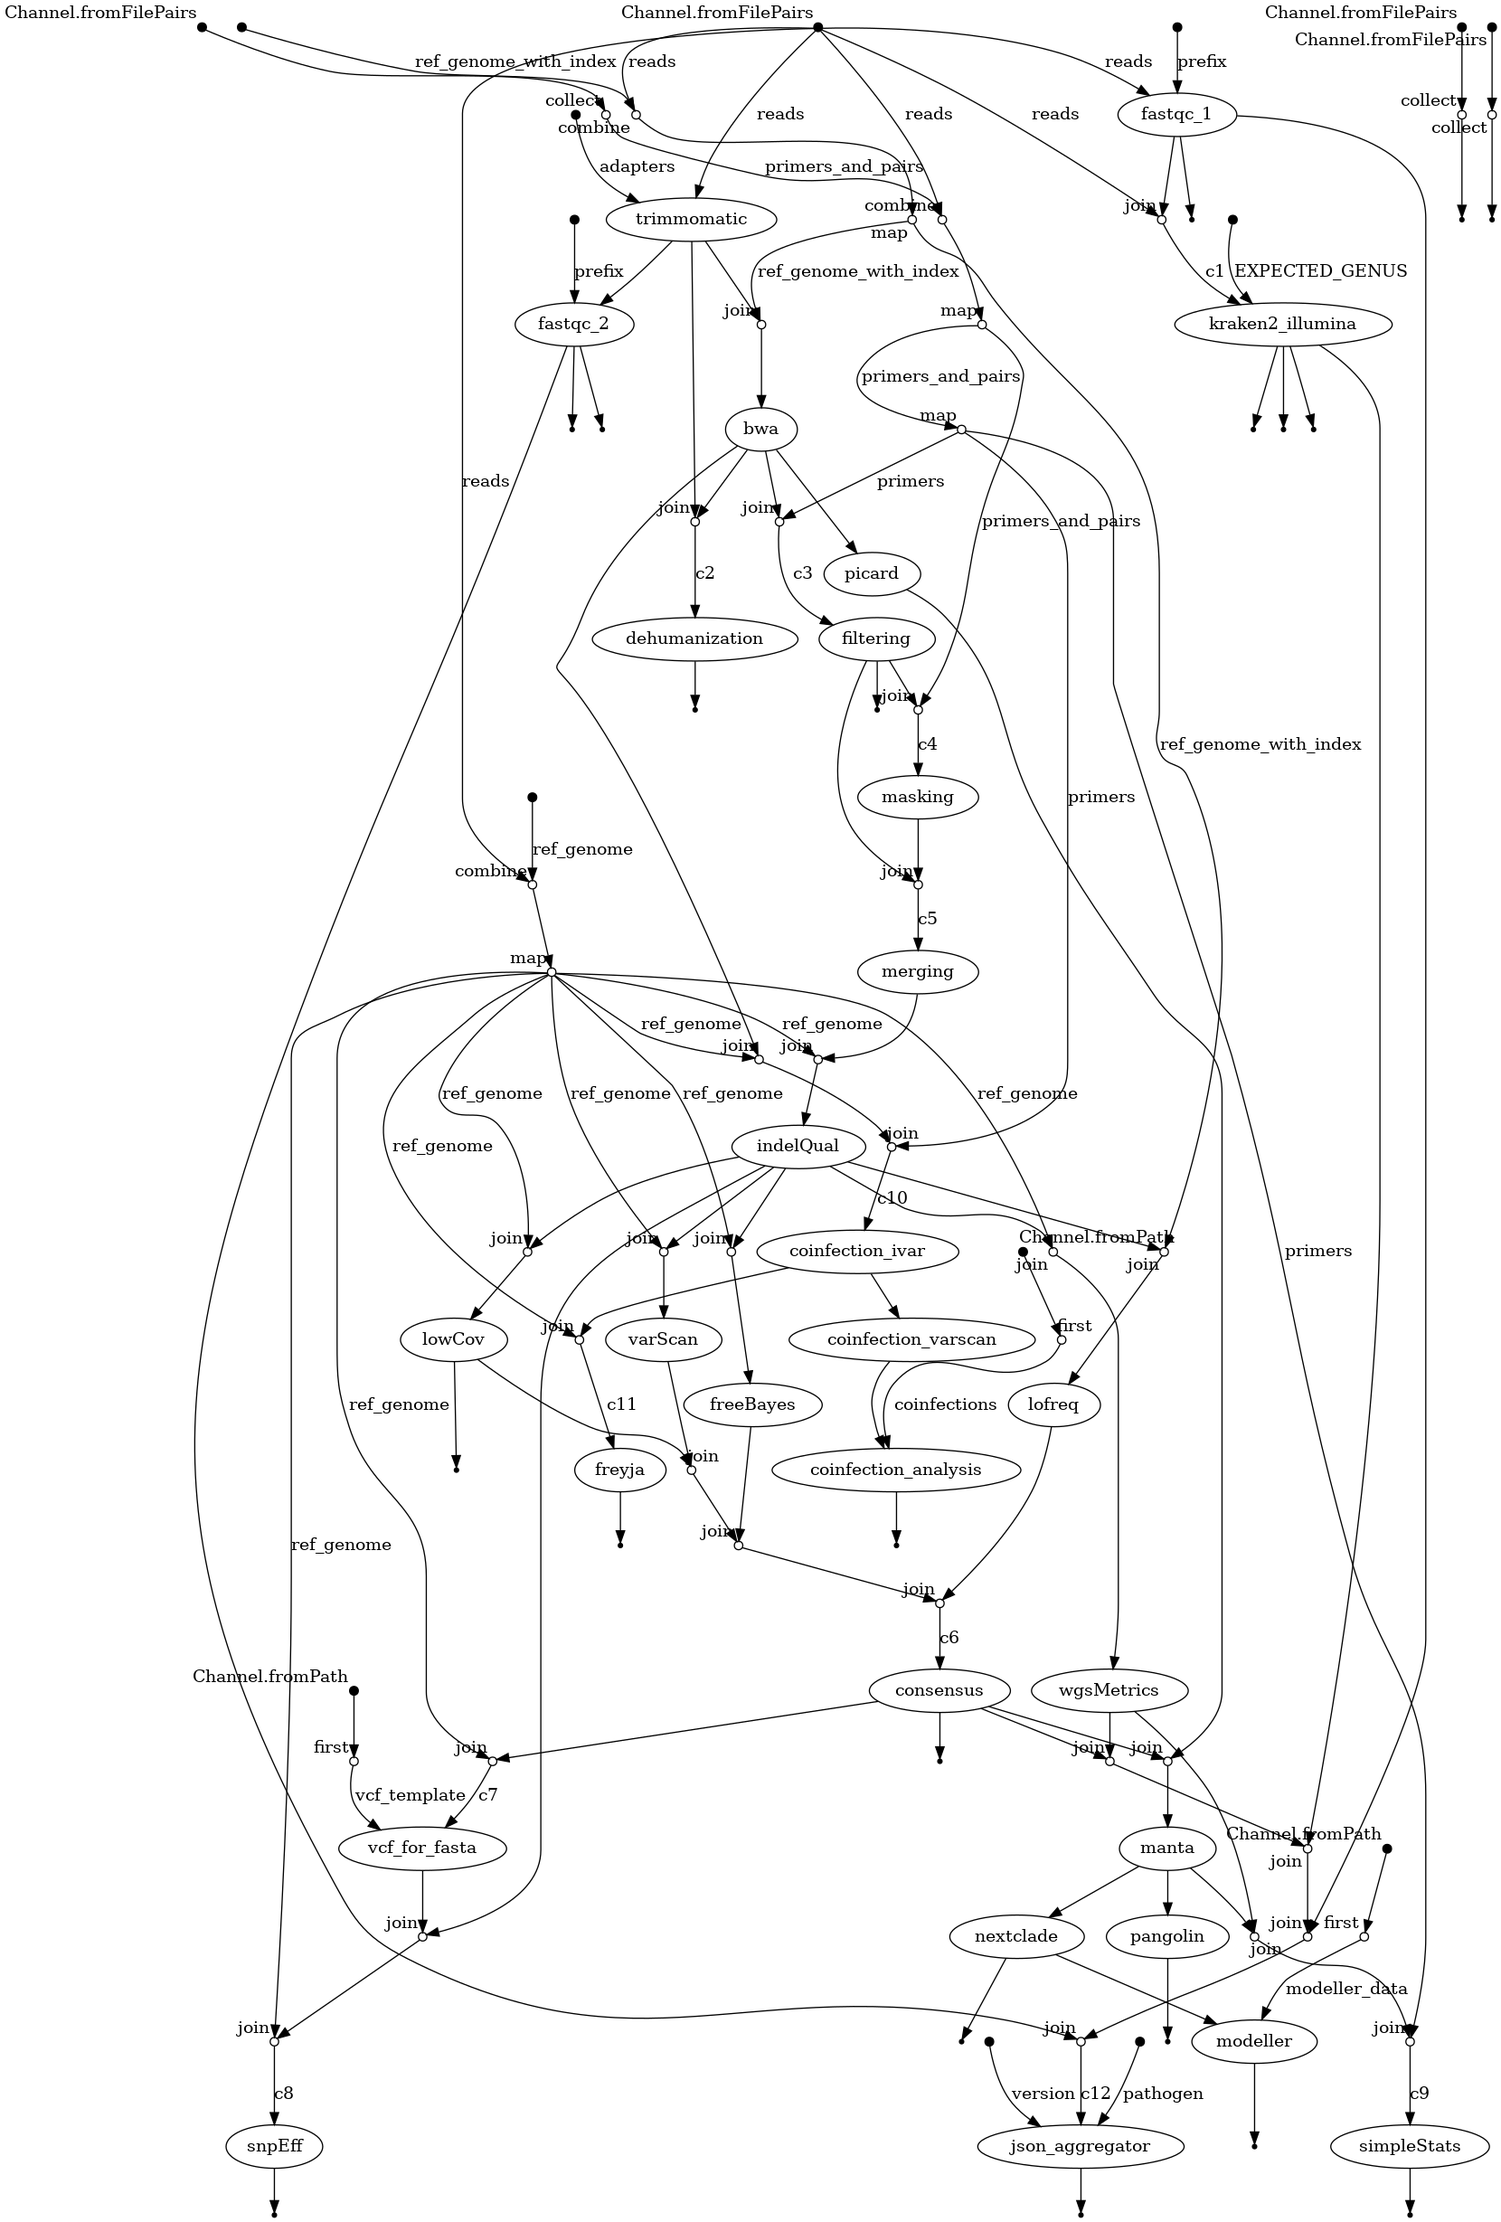
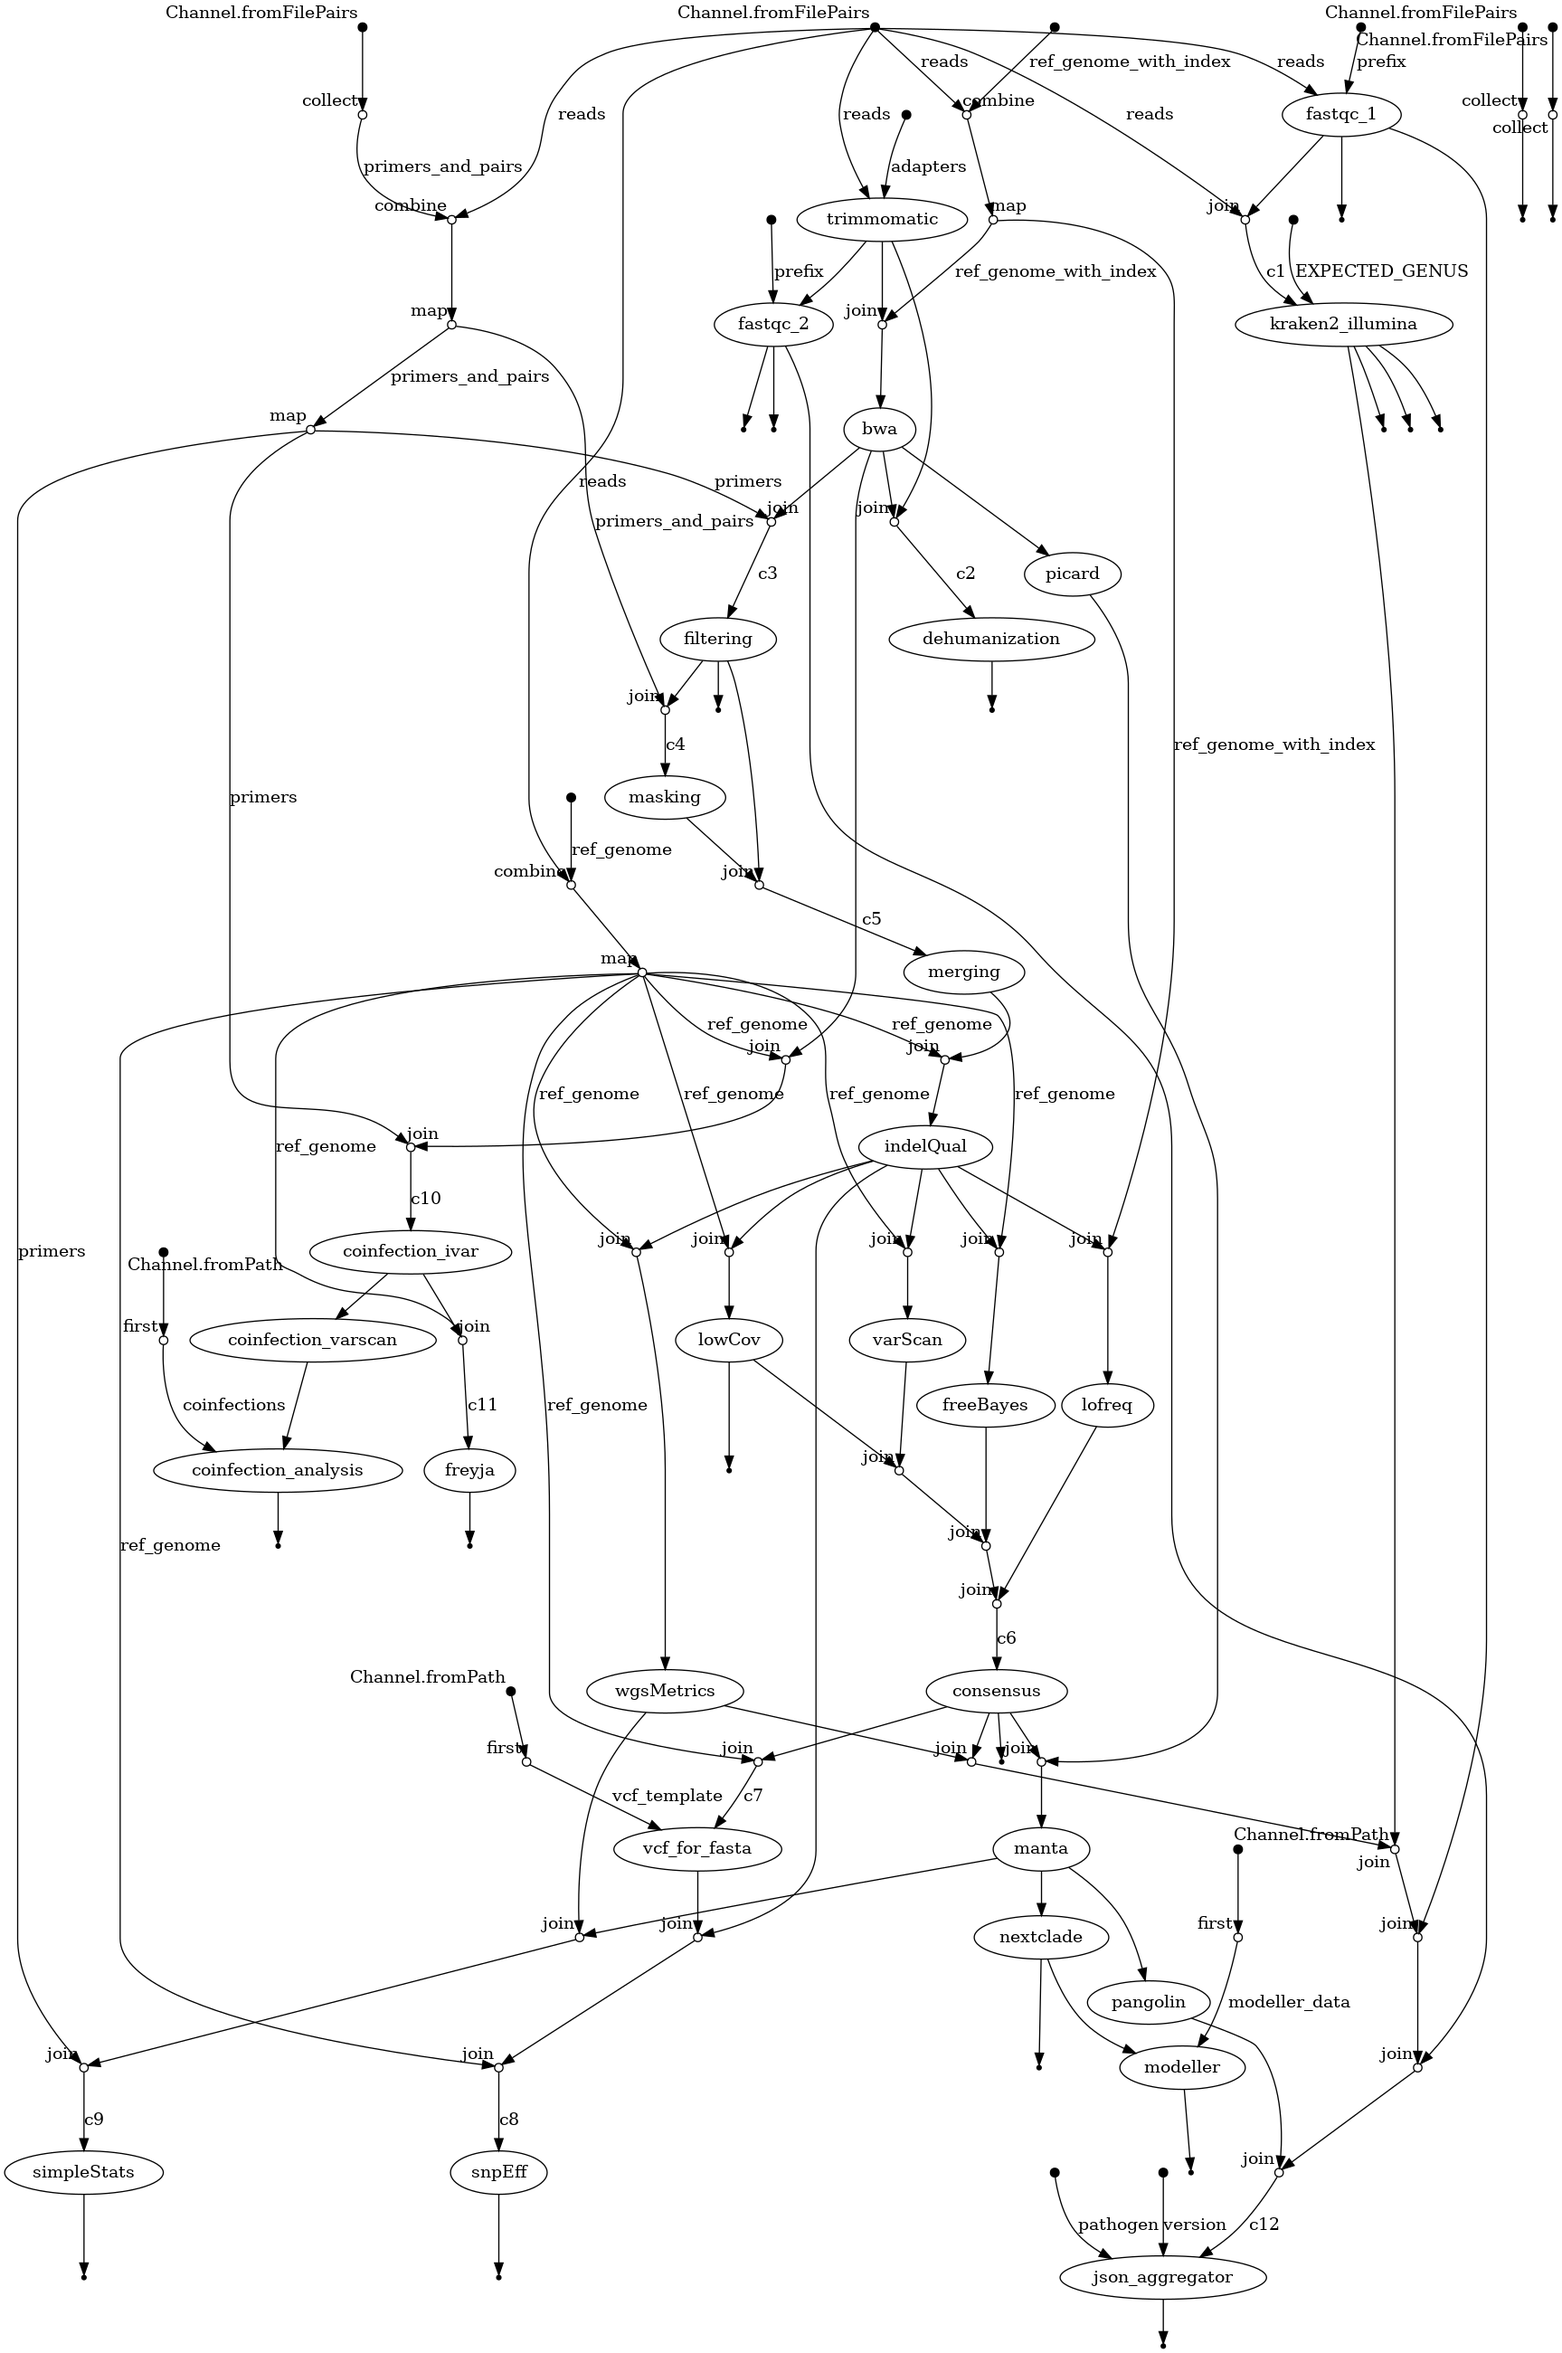
pangolin output added to output.json

diff --git a/bin/sarscov2/parse_pangolin_output_csv2json.py b/bin/sarscov2/parse_pangolin_output_csv2json.py
@@ -1,0 +1,45 @@
+#!/usr/bin/env python3
+
+import argparse
+import csv
+import json
+import os
+from warnings import warn
+
+
+def parse_pangolin_output_csv2json(input: str, output: str):
+    if not os.path.exists(input):
+        warn(f"File {input} does not exist.")
+        output_json = {"status": "nie",
+                  "database_name": "Pango",
+                  "error_message": f"File {input} does not exist."}
+        with open(output, 'w') as f:
+            json.dump(output_json, f)
+    else:
+        with open(input, 'r') as f:
+            reader = csv.DictReader(f)
+            data = list(reader)
+        output_json = {"status": "tak",
+                  "database_name": "Pango",
+                  "database_version": data[0]['pangolin_version'],
+                  "program_name": "scorpion",
+                  "program_version": data[0]['scorpio_version'],
+                  "variant_name": data[0]['lineage'],
+                  "variant_qc_status": data[0]['qc_status'],}
+        with open(output, 'w') as f:
+            json.dump(output_json, f, indent=4)
+
+    print(f"File {output} saved.")
+
+
+def main():
+    parser = argparse.ArgumentParser(description='Convert Pangolin output CSV to JSON')
+    parser.add_argument('input', type=str, help='Input CSV file')
+    parser.add_argument('output', type=str, help='Output JSON file')
+    args = parser.parse_args()
+
+    parse_pangolin_output_csv2json(args.input, args.output)
+
+
+if __name__ == '__main__':
+    main()

diff --git a/bin/common/json_aggregator.py b/bin/common/json_aggregator.py
@@ -103,6 +103,14 @@ def fill_genome_files_data(args, output):
                     'segment_path': filename
                 })
 
+def fill_viral_classification_data_pangolin(args, output):
+    if args.pangolin == "non-existent":
+        return
+    with open(args.pangolin) as f:
+        pangolin = json.load(f)
+        output["output"]["viral_classification_data"].append(pangolin)
+
+
 def json_aggregator(args):
     output = {"output": {}}
 
@@ -142,6 +150,8 @@ def json_aggregator(args):
 
     fill_sequencing_summary_data(args, output)
 
+    fill_viral_classification_data_pangolin(args, output)
+
     with open("output.json", "w") as f:
         json.dump(output, f, indent=4)
 
@@ -159,6 +169,7 @@ def main():
     parser.add_argument('--contamination', help="JSON from contamination detection (kraken2)")
     parser.add_argument('--fastqc_pre', nargs=2, help='Two json files from fastqc module (pre_filtering)')
     parser.add_argument('--fastqc_post', nargs=2, help='Two json files from fastqc module (post_filtering)')
+    parser.add_argument('--pangolin', help="JSON from viral classification module")
 
     args = parser.parse_args()
 
